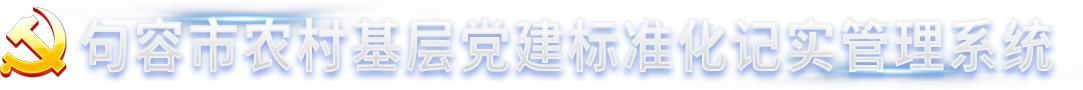
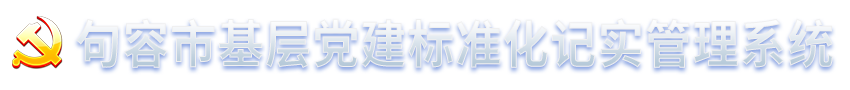
标题修改

diff --git a/src/layout/components/TopBar.vue b/src/layout/components/TopBar.vue
@@ -413,8 +413,8 @@
     }
 
     .top_bar .header-title {
-        width: calc(1083 * 100vw/1920 * 0.75);
-        height: calc(90 * 100vw/1920 * 0.75);
+        width: calc(950 * 100vw/1920 * 0.85);
+        height: calc(90 * 100vw/1920 * 0.85);
         min-width: 683px;
         min-height: 39px;
         background: url("/static/header/title.png") no-repeat;
